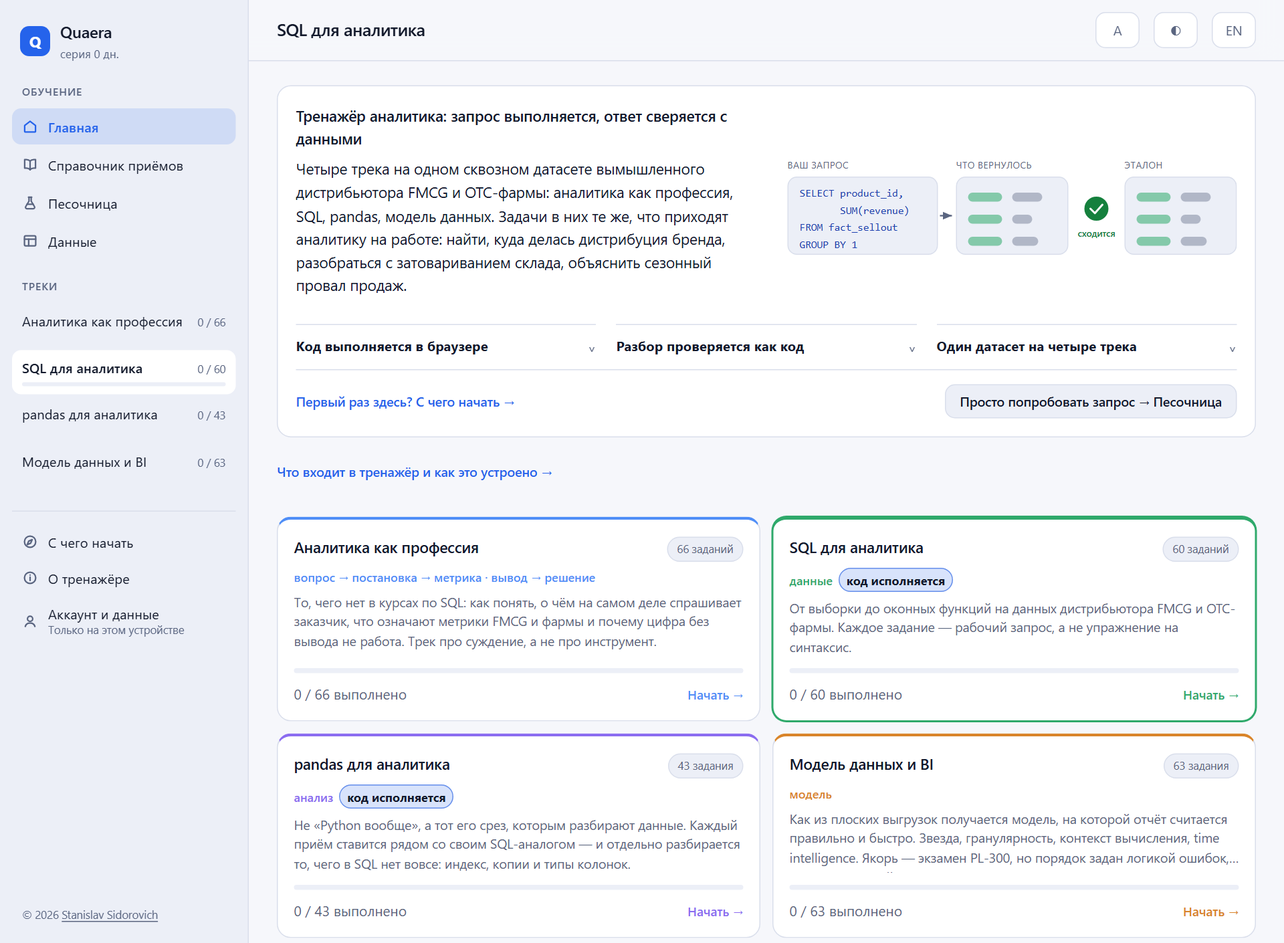
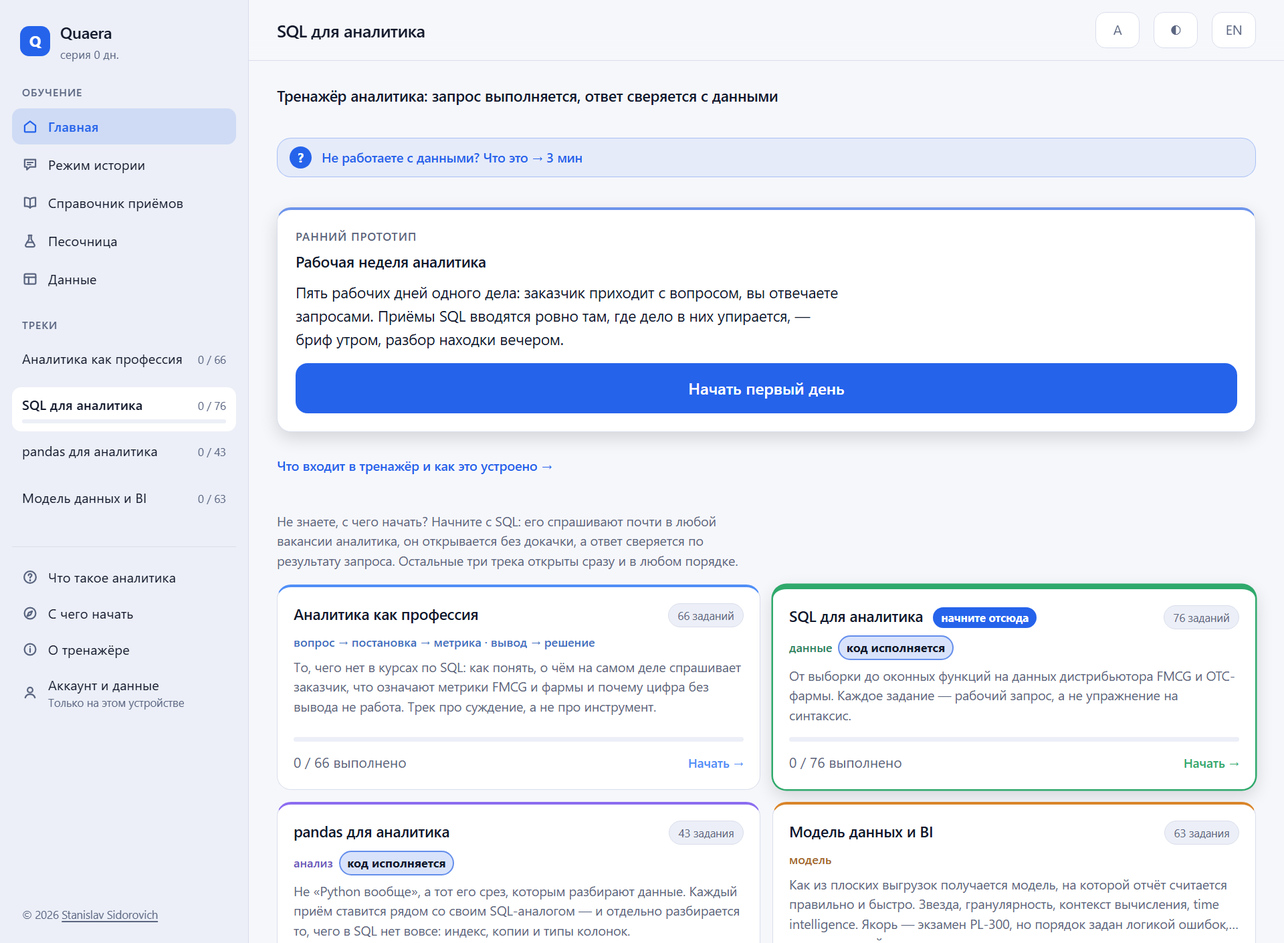
README: привести в соответствие с приложением
Числа устарели на месяц: было «232 задания, 69 навыков» и «SQL — 60/16»,
на самом деле 248 и 71, у SQL 76 и 18; гейтов 14, а не 10. Для портфолио
это худший род ошибки — проверивший одно число обесценит остальные.

В README не было половины сделанного: режима истории, экскурса «Что такое
аналитика данных», справочника, напоминаний. Скриншот главной показывал
меню без режима истории и SQL 0/60 — перестрелян, добавлены режим истории
и экскурс.

Верх переписан под читателя, который не работает с данными: человеческая
фраза до слов PWA и Pyodide, таблица «что посмотреть за три минуты» с четырьмя
входами. Разделы для разработчика (запуск, устройство, деплой, как добавить
задание) уехали вниз под явную границу.

diff --git a/README.md b/README.md
@@ -1,23 +1,93 @@
 # Quaera — тренажёр аналитика данных
 
-Мобильное веб-приложение (PWA) для практики SQL, pandas, модели данных
-и суждения аналитика на данных, похожих на рабочие. Код исполняется
-по-настоящему — SQLite и Python (Pyodide) работают целиком в браузере,
-офлайн, без сервера и без регистрации.
+**Открываете ссылку и через минуту пишете настоящий запрос к базе вымышленного
+дистрибьютора: ищете, почему упал бренд, и сразу видите, сошёлся ли ответ
+с данными.** Ставить ничего не нужно, регистрации нет, на телефоне работает
+и без интернета.
 
 **[Открыть приложение → quaera.app](https://quaera.app)**
 
-Регистрации нет, ставить ничего не нужно. Трек SQL поднимается за несколько
-секунд (3.5 МБ базы) и дальше работает офлайн — с него удобнее всего начать
-знакомство. Трек pandas тянет рантайм Python на ~52 МБ и спрашивает согласие
-перед загрузкой, так что на мобильном интернете его лучше отложить.
+Если словосочетание «аналитика данных» вам ничего не говорит, начните отсюда:
+**[Что такое аналитика данных](https://quaera.app/?intro)** — экскурс на три
+минуты, написанный без единого профессионального термина.
 
-Разбор трёх сюжетов из этого же датасета, написанный как рабочий документ
-аналитика: **[Kaiyo Trading: three findings and what they cost](docs/analysis/kaiyo-trading.en.md)**.
+Технически это мобильное веб-приложение (PWA) для практики SQL, pandas, модели
+данных и суждения аналитика на данных, похожих на рабочие. Код исполняется
+по-настоящему: SQLite и Python (Pyodide) работают целиком в браузере, без
+сервера.
 
-Автор — Станислав Сидорович: [LinkedIn](https://www.linkedin.com/in/stanislavsidorovich).
+## Что посмотреть за три минуты
 
-![Главная: четыре трека, карта навыков, прочность памяти по теме](docs/screenshots/01-home.png)
+| Кто вы | Куда смотреть |
+| --- | --- |
+| С данными не работаете | [Что такое аналитика данных](https://quaera.app/?intro) — что это за профессия и где она нужна, без терминов |
+| Учите SQL или pandas | [quaera.app](https://quaera.app), трек SQL: 3.5 МБ базы, поднимается за несколько секунд и дальше работает офлайн |
+| Аналитик — или нанимаете аналитика | [Kaiyo Trading: three findings and what they cost](docs/analysis/kaiyo-trading.en.md) — разбор датасета, написанный как рабочий документ аналитика |
+| Пришли посмотреть код | [Как это устроено](#как-это-устроено) ниже и [ROADMAP.md](ROADMAP.md): что проверяется гейтом автоматически, а что требует ручной экспертизы |
+
+![Главная: кампания «Рабочая неделя аналитика», четыре трека, рекомендованный старт](docs/screenshots/01-home.png)
+
+## Что внутри
+
+**Четыре трека — 248 заданий и 71 навык.** Наполнены целиком, вычитаны
+и переведены на английский: интерфейс, задания, карточки приёмов.
+
+| Трек | Заданий | Навыков | Как проверяется ответ |
+| --- | --- | --- | --- |
+| SQL для аналитика | 76 | 18 | Запрос выполняется в SQLite (sql.js) |
+| Аналитика как профессия | 66 | 20 | Выбор варианта с разбором (`predict`) |
+| Модель данных и BI | 63 | 19 | Выбор варианта с разбором (`predict`) |
+| pandas для аналитика | 43 | 14 | Код выполняется в Python (Pyodide) |
+
+**Режим истории — рабочая неделя аналитика.** Две недели по пять дней: утром
+заказчик приходит с вопросом, вечером вы приносите находку. Приёмы SQL
+вводятся ровно там, где дело в них упирается, а не по программе курса.
+Помечен в интерфейсе как ранний прототип — сюжет закрыт для SQL, остальные
+треки в него ещё не переложены.
+
+![Режим истории: понедельник первой недели, бриф от директора по продажам](docs/screenshots/03-story.png)
+
+**Карточка приёма — перед первой задачей на новый навык**, а не курс, который
+листают заранее: форма записи, пример на данных дистрибьютора, частая ошибка.
+
+![Карточка приёма: форма записи, пример, частая ошибка](docs/screenshots/02-lesson.png)
+
+Кроме треков в приложении есть:
+
+- **Справочник приёмов** — все карточки отдельным экраном, с примером,
+  который можно выполнить прямо в карточке, не открывая задание;
+- **Песочница** — свободный режим на тех же данных: любой запрос, без задания
+  и без подсказок, со списком вопросов рядом, если спросить нечего;
+- **Экран «Данные»** — схема из 12 таблиц с гранулярностью и числом строк,
+  посчитанными от настоящего датасета, а не вписанными руками;
+- **Повторение и напоминания** — интервальный планировщик и push-уведомление,
+  когда тему пора повторить;
+- **Синхронизация — по желанию.** Без входа прогресс живёт в браузере
+  и о вас на сервере нет ни строки; вход нужен ровно для одного — перенести
+  прогресс на второе устройство.
+
+Есть и отдельный экран для тех, кто про эту профессию ничего не знает: что
+делают с данными в компании, зачем для этого отдельные инструменты и где так
+работают. Его можно отправить ссылкой знакомому, не объясняя ничего голосом.
+
+![Экскурс «Что такое аналитика данных»: карта области и первый блок](docs/screenshots/08-intro.png)
+
+## Чем это отличается от других тренажёров
+
+Не количеством задач, а четырьмя вещами.
+
+**1. Один связный датасет вместо учебных табличек.** Вымышленный дистрибьютор
+FMCG и OTC-фармы «Kaiyo Trading», звезда из 12 таблиц, 156 тысяч строк
+за два с половиной года. Данные согласованы: sell-out агрегируется в sell-in,
+sell-in минус sell-out даёт остатки, планы построены от факта. Все четыре
+трека работают на одних и тех же цифрах — падение бренда из-за потери
+дистрибуции разбирается запросом, датафреймом, мерой DAX и рассуждением,
+и ответы обязаны сходиться.
+
+**2. Диагностика вместо вердикта.** Ответ сравнивается по результату,
+а не по тексту запроса, и по форме расхождения восстанавливается вероятная
+причина: размножение строк соединением, потерянный фильтр периода, INNER
+вместо LEFT, забытый ORDER BY, опечатка в имени колонки.
 
 <table>
 <tr>
@@ -58,45 +128,59 @@
 </tr>
 </table>
 
-Карточка приёма — перед первой задачей на новый навык, а не курс, который
-листают заранее: форма записи, пример на данных дистрибьютора, частая ошибка.
+**3. У каждого утверждения — источник.** Числа, которые задание цитирует
+в тексте (предсказание результата запроса, метрики бизнеса в domain, значение
+меры в model), заранее сверены с датасетом и защищены отдельной проверкой
+в гейте сборки — см. «Сюжеты в данных» ниже.
 
-![Карточка приёма: форма записи, пример, частая ошибка](docs/screenshots/02-lesson.png)
+**4. Код исполняется на телефоне.** SQLite и pandas работают в Web Worker
+прямо в браузере, включая офлайн, без сервера — обычно это ограничение
+десктопных инструментов.
 
-Четыре трека наполнены целиком — **232 задания, 69 навыков**:
+## Сюжеты в данных
 
-| Трек | Заданий | Навыков | Исполнитель |
-| --- | --- | --- | --- |
-| SQL для аналитика | 60 | 16 | SQLite (sql.js) |
-| Аналитика как профессия | 66 | 20 | нет — режим `predict` |
-| pandas для аналитика | 43 | 14 | Python (Pyodide) |
-| Модель данных и BI | 63 | 19 | нет — режим `predict` |
+Задачи опираются не на случайные числа, а на заложенные ситуации:
 
-Интерфейс двуязычный (русский/английский), и контент переведён целиком:
-все 232 задания, 69 навыков и 69 карточек приёмов существуют на обоих
-языках. Тексты заданий переводятся отдельно от строк интерфейса —
-почему именно так, описано ниже в «Как добавить задание».
+- бренд «Nettora» падает вдвое — не из-за спроса и не из-за цены,
+  а потому что его перестали брать больше половины точек;
+- дистрибьютор «Setouchi Trading» затарил склад в Q4 2025: отношение sell-in
+  к sell-out подскочило с обычных 1.04 до 2.44, вернулось к норме за два
+  квартала — а остатки на складе выросли впятеро и не снизились: поток
+  восстановился, уровень остался (различие потока и запаса — dom-021);
+- разнонаправленная сезонность: вода летом, витамины и жаропонижающие зимой —
+  один и тот же переход месяца даёт то +316%, то +36%, то +3.2% в зависимости
+  от базы сравнения (dom-025);
+- систематический перекос планирования: план по выручке выполняют 3–7
+  торговых представителей из 25 каждый месяц полугодия — распределение
+  выдаёт дефект норматива, которого не видно в среднем проценте (dom-022);
+- запуск «Vitanor Forte» в сентябре 2025 с постепенной раскаткой дистрибуции;
+- отсутствие строки в `fact_sellout` означает «не продавалось», а не ноль;
+- `staging_raw_sellout` — сырой слой с дублями, NULL, датами в четырёх
+  форматах и одной сетью в двух написаниях;
+- одна дата в двух ролях: заказ и отгрузка в `fact_sellin` расходятся
+  на 2–11 дней, и 1979 заказов из 15 362 переезжают отгрузкой в следующий
+  месяц — ровно тот случай, где для модели данных нужны активная
+  и неактивная связь к одному календарю, а не два (mdl-031, mdl-032).
 
-Отличие от других тренажёров — не в количестве задач, а в четырёх вещах:
+Три из них разобраны до конца и сведены в один документ —
+**[Kaiyo Trading: three findings and what they cost](docs/analysis/kaiyo-trading.en.md)**
+(на английском). Приложение показывает, как задавать вопросы данным; этот
+разбор показывает, как на них отвечают: вопрос → что показали данные →
+что это значит → что делать → чего это стоит, с проверкой альтернативных
+объяснений и ценой каждой находки в деньгах.
 
-1. **Один связный датасет вместо учебных табличек.** Вымышленный дистрибьютор
-   FMCG и OTC-фармы «Kaiyo Trading», звезда из 12 таблиц, 156 тысяч строк
-   за два с половиной года. Данные согласованы: sell-out агрегируется
-   в sell-in, sell-in минус sell-out даёт остатки, планы построены от факта.
-   Все четыре трека работают на одних и тех же цифрах — падение бренда из-за
-   потери дистрибуции разбирается запросом, датафреймом, мерой DAX и
-   рассуждением, и ответы обязаны сходиться.
-2. **Диагностика вместо вердикта.** Ответ сравнивается по результату,
-   а не по тексту запроса, и по форме расхождения восстанавливается вероятная
-   причина: размножение строк соединением, потерянный фильтр периода, INNER
-   вместо LEFT, забытый ORDER BY, опечатка в имени колонки.
-3. **У каждого утверждения — источник.** Числа, которые задание цитирует
-   в тексте (предсказание результата запроса, метрики бизнеса в domain,
-   значение меры в model), заранее сверены с датасетом и защищены отдельной
-   проверкой в гейте сборки — см. «Сюжеты в данных» ниже.
-4. **Код исполняется на телефоне.** SQLite и pandas работают в Web Worker
-   прямо в браузере, включая офлайн, без сервера — обычно это ограничение
-   десктопных инструментов.
+`npm run verify:data` проверяет, что все они на месте: если правка генератора
+убьёт сюжет, эталонные ответы к заданиям молча разъедутся с реальностью.
+Для чисел, которые задание цитирует в тексте (а не только в исполняемом
+эталоне — так устроены все задания в `domain` и `model`), в
+`verify-content.mjs` есть отдельные проверки по каждому такому заданию:
+гейт проверяет не только «запрос выполняется», но и «текст не разошёлся
+с базой».
+
+---
+
+Дальше — для тех, кто открывает код: как поднять локально, из чего собрано
+приложение, как устроен деплой и как добавить задание.
 
 ## Запуск
 
@@ -114,7 +198,7 @@ npm install && npm run prepare:assets && npm run dev
 | `npm run dev` | Дев-сервер |
 | `npm run build` | Проверка типов, продакшен-сборка, service worker |
 | `npm run gen:data` | Пересобрать датасет |
-| `npm run verify` | Все 10 гейтов: датасет, контент, планировщик, слияние прогресса, график, схема, английская проза, сверка текстом для DAX, миграция хранилища, сверка двух исполнителей |
+| `npm run verify` | Все 14 гейтов: датасет, контент, планировщик повторений, слияние прогресса, правила графика, раскладка схемы, английская проза, сверка текстом для DAX, миграция хранилища, сверка двух исполнителей, расписание push-напоминаний, ширина колонок в CSS, сюжетная линия и лестница режима истории |
 
 ### Если форкаете: аккаунт и синхронизация
 
@@ -193,46 +277,6 @@ src/ui/                     мобильные компоненты
 цену; отказаться можно и продолжить пользоваться картой навыков
 и справочником без него. SQL и остальные треки этого экрана не видят.
 
-## Сюжеты в данных
-
-Задачи опираются не на случайные числа, а на заложенные ситуации:
-
-- бренд «Nettora» падает вдвое — не из-за спроса и не из-за цены,
-  а потому что его перестали брать больше половины точек;
-- дистрибьютор «Setouchi Trading» затарил склад в Q4 2025: отношение sell-in
-  к sell-out подскочило с обычных 1.04 до 2.44, вернулось к норме за два
-  квартала — а остатки на складе выросли впятеро и не снизились: поток
-  восстановился, уровень остался (различие потока и запаса — dom-021);
-- разнонаправленная сезонность: вода летом, витамины и жаропонижающие зимой —
-  один и тот же переход месяца даёт то +316%, то +36%, то +3.2% в зависимости
-  от базы сравнения (dom-025);
-- систематический перекос планирования: план по выручке выполняют 3–7
-  торговых представителей из 25 каждый месяц полугодия — распределение
-  выдаёт дефект норматива, которого не видно в среднем проценте (dom-022);
-- запуск «Vitanor Forte» в сентябре 2025 с постепенной раскаткой дистрибуции;
-- отсутствие строки в `fact_sellout` означает «не продавалось», а не ноль;
-- `staging_raw_sellout` — сырой слой с дублями, NULL, датами в четырёх
-  форматах и одной сетью в двух написаниях;
-- одна дата в двух ролях: заказ и отгрузка в `fact_sellin` расходятся
-  на 2–11 дней, и 1979 заказов из 15 362 переезжают отгрузкой в следующий
-  месяц — ровно тот случай, где для модели данных нужны активная
-  и неактивная связь к одному календарю, а не два (mdl-031, mdl-032).
-
-Три из них разобраны до конца и сведены в один документ —
-**[Kaiyo Trading: three findings and what they cost](docs/analysis/kaiyo-trading.en.md)**
-(на английском). Приложение показывает, как задавать вопросы данным; этот
-разбор показывает, как на них отвечают: вопрос → что показали данные →
-что это значит → что делать → чего это стоит, с проверкой альтернативных
-объяснений и ценой каждой находки в деньгах.
-
-`npm run verify:data` проверяет, что все они на месте: если правка генератора
-убьёт сюжет, эталонные ответы к заданиям молча разъедутся с реальностью.
-Для чисел, которые задание цитирует в тексте (а не только в исполняемом
-эталоне — так устроены все задания в `domain` и `model`), в
-`verify-content.mjs` есть отдельные проверки по каждому такому заданию:
-гейт проверяет не только «запрос выполняется», но и «текст не разошёлся
-с базой».
-
 ## Деплой
 
 Хостинг — Cloudflare Pages, подключённый к этому репозиторию. Настройки
@@ -302,13 +346,21 @@ Pyodide и пакеты, загружаемые через него — numpy, p
 ## Дальше
 
 Контент закрыт целиком — и задания, и перевод. Песочница, DAX в режиме
-«дописать» и синхронизация прогресса тоже сделаны. Дальнейшая работа
-не про пустые ветки графа, а про глубину:
+«дописать», синхронизация прогресса, режим истории и экскурс для тех, кто
+вне профессии, тоже сделаны. Дальнейшая работа не про пустые ветки графа,
+а про глубину:
 
+- **Живые прохождения.** Приложение пока прошёл только автор. Это верхний
+  пункт очереди, и он важнее любой новой функции: где человек застревает,
+  видно только по человеку. Замечание к заданию, спор с разбором или рассказ
+  о том, где вы бросили, — в [issues](https://github.com/StanislavSidorovich/Quaera/issues).
 - **Статистика для аналитика** — значимость, доверительные интервалы,
   выбросы, A/B: пробел, которого нет ни в одном треке.
-- **Capstone** — сквозной кейс от бизнес-вопроса до рекомендации,
-  требует нового режима движка (многошаговое задание с состоянием).
+- **Capstone** — сквозной кейс от бизнес-вопроса до рекомендации.
+  Многошаговое задание в движке уже есть, но шаги не передают состояние
+  друг другу; capstone требует именно этого.
+- **Проза сюжетной линии для трёх остальных треков** — сама линия у них
+  выводится и работает, не хватает только текста.
 
 Порядок, объём и обоснование каждого шага — в [ROADMAP.md](ROADMAP.md), там же
 раздел о том, какая работа проверяется гейтом автоматически, а какая требует
